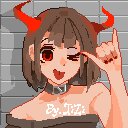
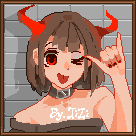
更换纹理

diff --git a/Content/UIs/SupertableUIs/RecipeUI.cs b/Content/UIs/SupertableUIs/RecipeUI.cs
@@ -37,7 +37,7 @@ namespace CalamityOverhaul.Content.UIs.SupertableUIs
                 DrawPosition = SupertableUI.Instance.DrawPosition + new Vector2(545, 80);
             }
             mainRec = new Rectangle((int)(DrawPosition.X), (int)(DrawPosition.Y), Texture.Width, Texture.Height);
-            rAow = new Rectangle((int)DrawPosition.X + 65, (int)DrawPosition.Y + 20, 25, 25);
+            rAow = new Rectangle((int)DrawPosition.X + 62, (int)DrawPosition.Y + 20, 25, 25);
             lAow = new Rectangle((int)(DrawPosition.X - 30), (int)(DrawPosition.Y + 20), 25, 25);
             onM = mainRec.Intersects(new Rectangle((int)MousePosition.X, (int)MousePosition.Y, 1, 1));
             onR = rAow.Intersects(new Rectangle((int)MousePosition.X, (int)MousePosition.Y, 1, 1));
@@ -150,16 +150,18 @@ End:;
             Texture2D arow = CWRUtils.GetT2DValue("CalamityOverhaul/Assets/UIs/SupertableUIs/BlueArrow");
             Texture2D arow2 = CWRUtils.GetT2DValue("CalamityOverhaul/Assets/UIs/SupertableUIs/BlueArrow2");
             spriteBatch.Draw(Texture, DrawPosition, null, Color.White * SupertableUI.Instance._sengs, 0, Vector2.Zero, 1, SpriteEffects.None, 0);//绘制出UI主体
-            spriteBatch.Draw(onR ? arow : arow2, DrawPosition + new Vector2(65, 20), null, Color.White * SupertableUI.Instance._sengs, 0, Vector2.Zero, 1, SpriteEffects.None, 0);
+            spriteBatch.Draw(onR ? arow : arow2, DrawPosition + new Vector2(62, 20), null, Color.White * SupertableUI.Instance._sengs, 0, Vector2.Zero, 1, SpriteEffects.None, 0);
             spriteBatch.Draw(onL ? arow : arow2, DrawPosition + new Vector2(-30, 20), null, Color.White * SupertableUI.Instance._sengs, 0, Vector2.Zero, 1, SpriteEffects.FlipHorizontally, 0);
             string text2 = $"{index + 1} -:- {itemTarget.Count}";
-            Terraria.Utils.DrawBorderStringFourWay(spriteBatch, FontAssets.MouseText.Value, text2, DrawPosition.X - text2.Length * 5 + 40, DrawPosition.Y + 65
+            Vector2 text2Size = FontAssets.MouseText.Value.MeasureString(text2);
+            Utils.DrawBorderStringFourWay(spriteBatch, FontAssets.MouseText.Value, text2, DrawPosition.X - text2Size.X / 2 + Texture.Width / 2, DrawPosition.Y + 65
                 , Color.White * SupertableUI.Instance._sengs, Color.Black * SupertableUI.Instance._sengs, new Vector2(0.3f), 0.8f);
             if (itemTarget != null && SupertableUI.Instance != null && index >= 0 && index < itemTarget.Count) {
                 SupertableUI.DrawItemIcons(spriteBatch, itemTarget[index], DrawPosition + new Vector2(5, 5), alp: 0.6f * SupertableUI.Instance._sengs, overSlp: 1.5f * SupertableUI.Instance._sengs);
                 string name = itemTarget[index].HoverName;
                 string text = $"{CWRLocText.GetTextValue("SupertableUI_Text2")}：{(name == "" ? CWRLocText.GetTextValue("SupertableUI_Text3") : name)}";
-                Terraria.Utils.DrawBorderStringFourWay(spriteBatch, FontAssets.MouseText.Value, text, DrawPosition.X - text.Length * 5, DrawPosition.Y - 25
+                Vector2 textSize = FontAssets.MouseText.Value.MeasureString(text);
+                Utils.DrawBorderStringFourWay(spriteBatch, FontAssets.MouseText.Value, text, DrawPosition.X - textSize.X / 2 + Texture.Width / 2, DrawPosition.Y - 25
                     , Color.White * SupertableUI.Instance._sengs, Color.Black * SupertableUI.Instance._sengs, new Vector2(0.3f), 0.8f);
             }
             if (onM) { //处理鼠标在UI格中查看物品的事情

diff --git a/Content/Projectiles/AmmoBoxs/BaseAmmoBox.cs b/Content/Projectiles/AmmoBoxs/BaseAmmoBox.cs
@@ -16,7 +16,6 @@ namespace CalamityOverhaul.Content.Projectiles.AmmoBoxs
         protected bool mouseInBox;
         private bool onDorp;
         private int dorpDistank;
-        protected int maxFrameNum = 1;
         public int FromeThisTImeID;
         public override void SetDefaults() {
             Projectile.width = 46;
@@ -61,8 +60,6 @@ namespace CalamityOverhaul.Content.Projectiles.AmmoBoxs
 
         public virtual bool ClickBehavior(Player player, CWRItems cwr) => true;
 
-        public virtual void ClockFrame() => CWRUtils.ClockFrame(ref Projectile.frame, 10, maxFrameNum - 1);
-
         public virtual void Dorp() {
             for (int i = 0; i < 13; i++) {
                 Tile tile = CWRUtils.GetTile(Projectile.Bottom / 16);
@@ -87,7 +84,6 @@ namespace CalamityOverhaul.Content.Projectiles.AmmoBoxs
         }
 
         public override void AI() {
-            ClockFrame();
             Projectile.timeLeft = 2;
             Player player = Main.LocalPlayer;
             float inPlayer = player.Distance(Projectile.Center);

diff --git a/Content/Tiles/CalSelfPortraitTile.cs b/Content/Tiles/CalSelfPortraitTile.cs
@@ -16,11 +16,11 @@ namespace CalamityOverhaul.Content.Tiles
             Main.tileSpelunker[Type] = true;
             Main.tileWaterDeath[Type] = false;
             TileObjectData.newTile.CopyFrom(TileObjectData.Style3x3Wall);
-            TileObjectData.newTile.Width = 7;
-            TileObjectData.newTile.Height = 8;
-            TileObjectData.newTile.Origin = new Point16(3, 4);
+            TileObjectData.newTile.Width = 4;
+            TileObjectData.newTile.Height = 5;
+            TileObjectData.newTile.Origin = new Point16(2, 2);
             TileObjectData.newTile.LavaDeath = true;
-            TileObjectData.newTile.CoordinateHeights = [16, 16, 16, 16, 16, 16, 16, 16];
+            TileObjectData.newTile.CoordinateHeights = [16, 16, 16, 16, 16];
             TileObjectData.addTile(Type);
             TileID.Sets.DisableSmartCursor[Type] = true;
             TileID.Sets.FramesOnKillWall[Type] = true;

diff --git a/Content/Tiles/WUTIVSelfPortraitTile.cs b/Content/Tiles/WUTIVSelfPortraitTile.cs
@@ -16,11 +16,11 @@ namespace CalamityOverhaul.Content.Tiles
             Main.tileSpelunker[Type] = true;
             Main.tileWaterDeath[Type] = false;
             TileObjectData.newTile.CopyFrom(TileObjectData.Style3x3Wall);
-            TileObjectData.newTile.Width = 8;
-            TileObjectData.newTile.Height = 8;
+            TileObjectData.newTile.Width = 9;
+            TileObjectData.newTile.Height = 9;
             TileObjectData.newTile.Origin = new Point16(4, 4);
             TileObjectData.newTile.LavaDeath = true;
-            TileObjectData.newTile.CoordinateHeights = [16, 16, 16, 16, 16, 16, 16, 16];
+            TileObjectData.newTile.CoordinateHeights = [16, 16, 16, 16, 16, 16, 16, 16, 16];
             TileObjectData.addTile(Type);
             TileID.Sets.DisableSmartCursor[Type] = true;
             TileID.Sets.FramesOnKillWall[Type] = true;

diff --git a/Content/Projectiles/AmmoBoxs/ArmourPiercerBoxProj.cs b/Content/Projectiles/AmmoBoxs/ArmourPiercerBoxProj.cs
@@ -7,9 +7,6 @@ namespace CalamityOverhaul.Content.Projectiles.AmmoBoxs
     internal class ArmourPiercerBoxProj : BaseAmmoBox
     {
         public override string Texture => CWRConstant.Item + "Placeable/HEATBox";
-        public override void SetAmmoBox() {
-            maxFrameNum = 1;
-        }
         public override bool ClickBehavior(Player player, CWRItems cwr) {
             _ = SoundEngine.PlaySound(CWRSound.loadTheRounds, Projectile.Center);
             _ = SoundEngine.PlaySound(CWRSound.DeploymentSound_AP with { Volume = 0.4f }, Projectile.Center);

diff --git a/Content/UIs/SupertableUIs/MaterialOrganizer.cs b/Content/UIs/SupertableUIs/MaterialOrganizer.cs
@@ -23,7 +23,7 @@ namespace CalamityOverhaul.Content.UIs.SupertableUIs
                 return SupertableUI.Instance.Active;
             }
         }
-        protected virtual Vector2 offsetDraw => new Vector2(570, 330);
+        protected virtual Vector2 offsetDraw => new Vector2(574, 330);
         private int useTimeCoolding;
         private int useMuse3AddCount;
         private bool checkSetO => GetType() != typeof(MaterialOrganizer);
